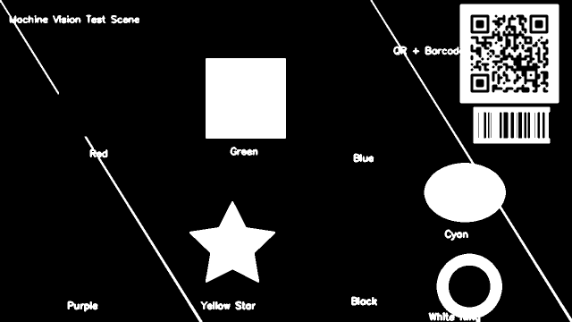
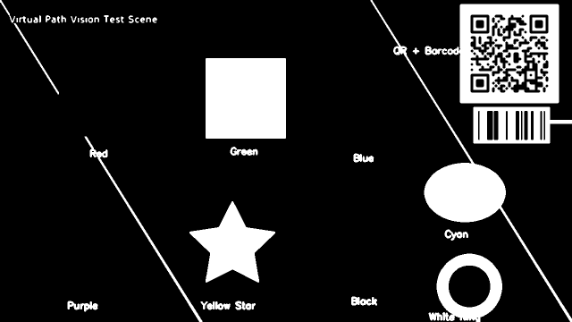
test: 重新生成测试图并刷新文档截图
- test_scene.png 标题改为 Virtual Path Vision Test Scene（Verdana 21.4px，白字 1px 黑描边，位置与原图对齐）
- 二维码内容更新为 https://github.com/virtual-path/virtual-path-vision（原指向改名前地址），符号仍为 29x29 模块、每模块 6px，几何与原图一致
- 一维条码改为 Code 128 编码 OPENCV5，左右静区完整（原条码顶到图右边缘、无法解码），并清除右边缘残留的半截条码
- template_qr.png 按新二维码重新裁剪（220x220，位置 1030,10）
- docs/images 02-11 重新截图：先等待处理完成再抓取，改用 PrintWindow 渲染，不再受窗口焦点/遮挡影响
- README / README.zh-CN 测试图说明补充条码内容；CHANGELOG 新增 Unreleased 条目

Changed region(s): [[0.8024, 0.0311, 0.9808, 0.3106], [0.0, 0.0311, 0.2675, 0.0932], [0.8322, 0.3416, 1.0, 0.4348]]

diff --git a/CHANGELOG.md b/CHANGELOG.md
@@ -23,6 +23,14 @@ and this project adheres to [Semantic Versioning](https://semver.org/spec/v2.0.0
 - Removed the unused `ComboBoxStyle` resource from `App.xaml` (only `GlassComboBox` is used).
 - Regenerated the dark/light main-UI screenshots with a DPI-aware capturer (previous captures were
   clipped on high-DPI displays).
+- **Regenerated `TestImages/test_scene.png`.** The scene now carries the new title
+  “Virtual Path Vision Test Scene”, a QR code pointing at the new repository
+  (`https://github.com/virtual-path/virtual-path-vision` — the old one resolved to the pre-fork
+  project), and a Code 128 barcode encoding `OPENCV5` with proper quiet zones (the previous bars
+  ran into the image edge and could not be decoded). The stray half-barcode fragment on the right
+  edge was removed, and `TestImages/template_qr.png` was re-cropped to match.
+- Refreshed the mode screenshots `docs/images/02`–`11` against the regenerated test scene; the
+  capturer now renders through `PrintWindow`, so results no longer depend on window focus.
 
 ## [3.1.1] - 2026-10-01
 

diff --git a/README.zh-CN.md b/README.zh-CN.md
@@ -226,7 +226,7 @@ dotnet run --project VirtualPathVision/VirtualPathVision.csproj
 
 | 图片 | 测试内容 |
 |------|----------|
-| `test_scene.png` | 全部处理模式——边缘、轮廓、形状、颜色、QR/条码（内容为 `https://github.com/virtual-path/virtual-path-vision`） |
+| `test_scene.png` | 全部处理模式——边缘、轮廓、形状、颜色、QR（内容为 `https://github.com/virtual-path/virtual-path-vision`）与条码（内容为 `OPENCV5`） |
 | `template_green.png` | 模板匹配（绿色方块，匹配度 ≈ 1.0） |
 | `template_qr.png` | 特征点匹配（纹理丰富的 QR 裁剪图） |
 | `face_lena.jpg` | 人脸检测 |

diff --git a/README.md b/README.md
@@ -226,7 +226,7 @@ Open `TestImages/` from the Load Image dialog:
 
 | Image | What to test |
 |-------|--------------|
-| `test_scene.png` | All processing modes – edges, contours, shapes, colors, QR/barcode (`https://github.com/virtual-path/virtual-path-vision`) |
+| `test_scene.png` | All processing modes – edges, contours, shapes, colors, QR (`https://github.com/virtual-path/virtual-path-vision`) and barcode (`OPENCV5`) |
 | `template_green.png` | Template Matching (green square, score ≈ 1.0) |
 | `template_qr.png` | Feature Matching (texture-rich QR crop) |
 | `face_lena.jpg` | Face Detection |
